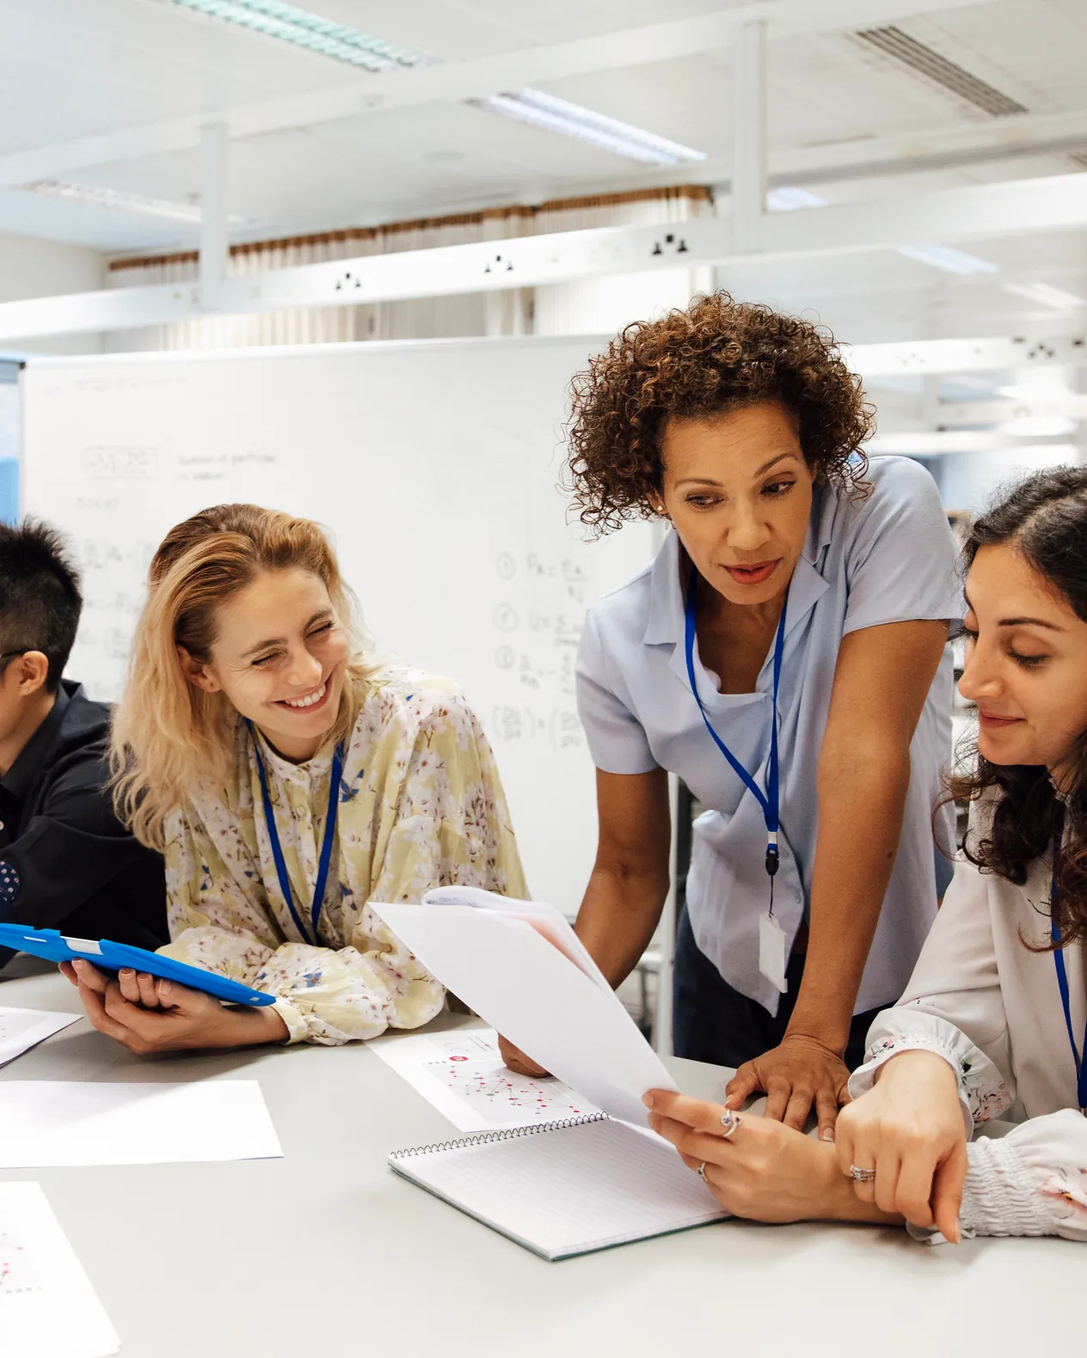
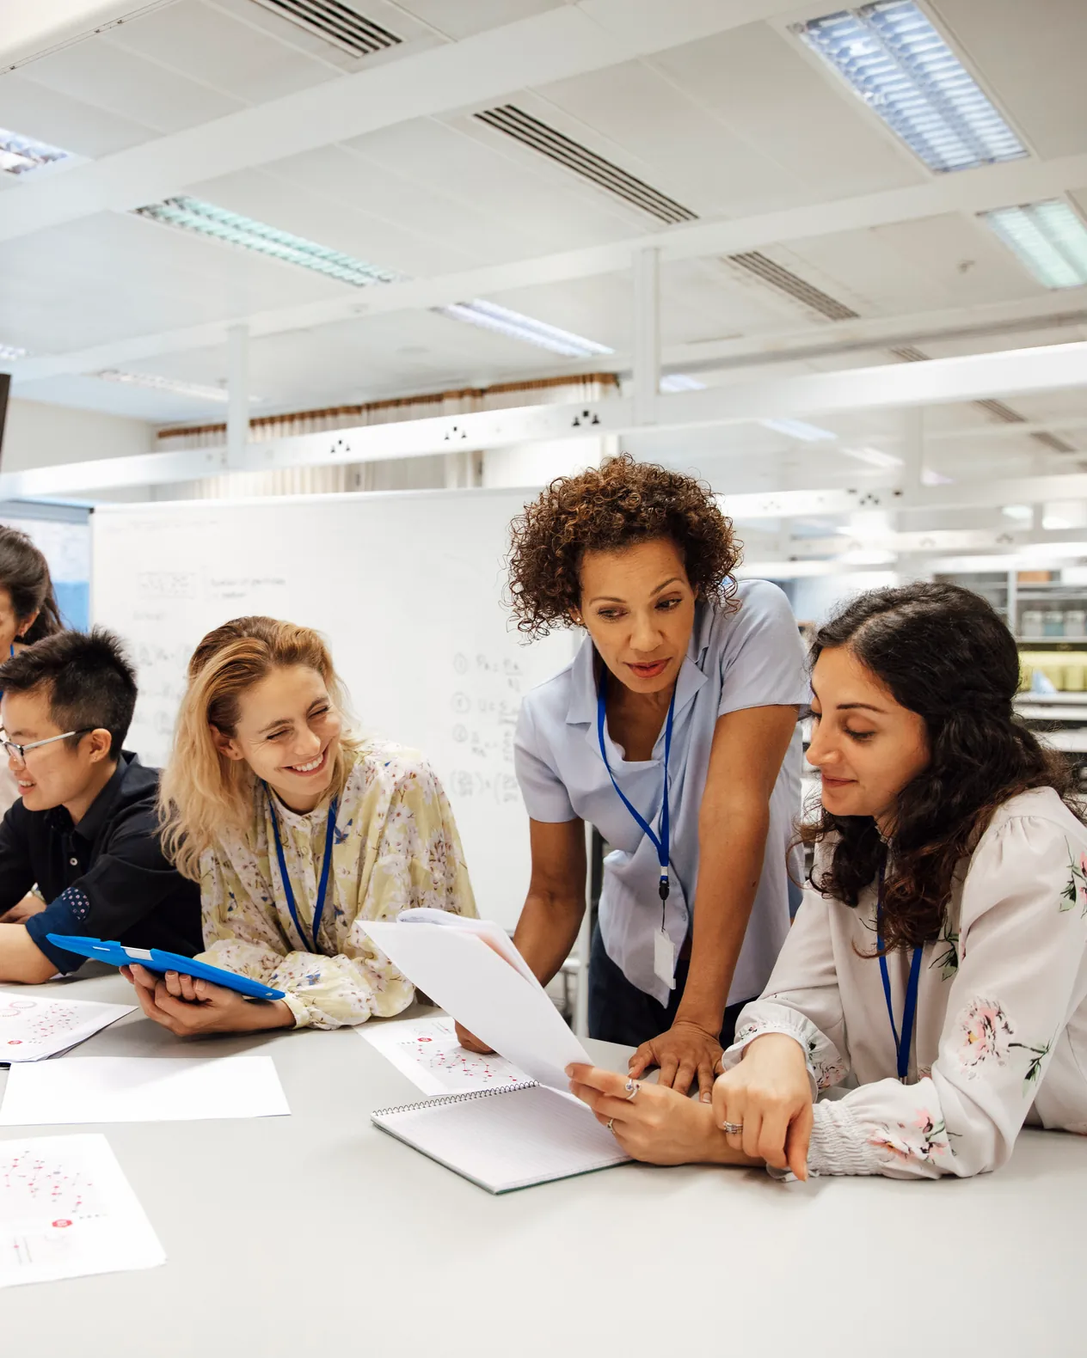
Apply the team's v3 photo review edits
Engineers screens and Co-design the tools square, Build the capabilities 11:10,
Teacher two students / Define the role / Test in classrooms 4:5 at the saved
framing. Regraded, re-encoded, exports and plugin regenerated.

Claude-Session: https://claude.ai/code/session_0149XafUAQf2TnRiTbrmD2Ru

diff --git a/index.html b/index.html
@@ -1143,7 +1143,7 @@
 
     <section class="media-row media-row-flip" style="padding:clamp(var(--section-pad-y),7vw,var(--section-pad-y-lg)) var(--page-gutter)">
       <div data-reveal="" style="opacity:0;transition:opacity var(--transition-fade);margin-inline:auto;max-width:var(--container-xxl);display:grid;grid-template-columns:repeat(auto-fit,minmax(min(var(--container-xxs),100%),1fr));column-gap:var(--space-20);row-gap:var(--space-12);align-items:center">
-        <img src="assets/images/engineers-screens.webp" srcset="assets/images/engineers-screens-m.webp 800w, assets/images/engineers-screens.webp 1264w" sizes="(min-width:1422px) 600px, (min-width:800px) calc(45vw - 40px), 90vw" alt="Programmers at a long shared desk, each at their own monitor, a wall of sticky notes behind them" style="width:100%;aspect-ratio:4/5;object-fit:cover;border-radius:var(--radius-image);display:block" decoding="async" loading="lazy">
+        <img src="assets/images/engineers-screens.webp" srcset="assets/images/engineers-screens-m.webp 800w, assets/images/engineers-screens.webp 1264w" sizes="(min-width:1422px) 600px, (min-width:800px) calc(45vw - 40px), 90vw" alt="Programmers at a long shared desk, each at their own monitor, a wall of sticky notes behind them" style="width:100%;aspect-ratio:1/1;object-fit:cover;border-radius:var(--radius-image);display:block" decoding="async" loading="lazy">
         <div>
           <h2 style="font-size:var(--text-h2);line-height:var(--text-h2-line-height);letter-spacing:var(--heading-letter-spacing);font-weight:var(--font-weight-bold);margin:0 0 var(--space-6);text-wrap:pretty">And the technology to support it is lacking.</h2>
           <p style="font-size:var(--text-medium);line-height:var(--text-body-line-height);font-weight:var(--font-weight-light);margin:0;text-wrap:pretty">Ed tech companies build the apps teachers and students use. The big AI labs build the underlying models that power these apps. What's missing is the layer in between: the foundational capabilities that let AI understand what a student knows, measure skills as complex as critical thinking, and adapt to what's happening in a real classroom.</p>
@@ -1204,7 +1204,7 @@
 
     <section class="media-row" style="padding:clamp(var(--space-28),15vh,10rem) var(--page-gutter) clamp(var(--space-28),15vh,10rem)">
       <div data-reveal="" style="opacity:0;transition:opacity var(--transition-fade);margin-inline:auto;max-width:var(--container-xxl);display:grid;grid-template-columns:repeat(auto-fit,minmax(min(var(--container-xxs),100%),1fr));column-gap:var(--space-20);row-gap:var(--space-12);align-items:center">
-        <img src="assets/images/build-capabilities.webp" srcset="assets/images/build-capabilities-m.webp 800w, assets/images/build-capabilities.webp 1264w" sizes="(min-width:1422px) 600px, (min-width:800px) calc(45vw - 40px), 90vw" alt="A teacher in a yellow dress talking with a group of sixth-form students in a classroom" style="width:100%;aspect-ratio:1/1;object-fit:cover;border-radius:var(--radius-image);display:block" decoding="async" loading="lazy">
+        <img src="assets/images/build-capabilities.webp" srcset="assets/images/build-capabilities-m.webp 800w, assets/images/build-capabilities.webp 1264w" sizes="(min-width:1422px) 600px, (min-width:800px) calc(45vw - 40px), 90vw" alt="A teacher in a yellow dress talking with a group of sixth-form students in a classroom" style="width:100%;aspect-ratio:11/10;object-fit:cover;border-radius:var(--radius-image);display:block" decoding="async" loading="lazy">
         <div>
           <p style="font-weight:var(--font-weight-semibold);font-size:var(--text-regular);margin:0 0 var(--space-4)"><span style="color:var(--brand-accent)">02</span>&nbsp;&nbsp;Build the capabilities</p>
           <h2 style="font-size:var(--text-h2);line-height:var(--text-h2-line-height);letter-spacing:var(--heading-letter-spacing);font-weight:var(--font-weight-bold);margin:0 0 var(--space-6);text-wrap:pretty">We research what makes that role technically feasible.</h2>
@@ -1215,7 +1215,7 @@
 
     <section class="media-row media-row-flip" style="padding:clamp(var(--space-28),15vh,10rem) var(--page-gutter) clamp(var(--space-28),15vh,10rem)">
       <div data-reveal="" style="opacity:0;transition:opacity var(--transition-fade);margin-inline:auto;max-width:var(--container-xxl);display:grid;grid-template-columns:repeat(auto-fit,minmax(min(var(--container-xxs),100%),1fr));column-gap:var(--space-20);row-gap:var(--space-12);align-items:center">
-        <img src="assets/images/codesign-tools.webp" srcset="assets/images/codesign-tools-m.webp 800w, assets/images/codesign-tools.webp 1264w" sizes="(min-width:1422px) 600px, (min-width:800px) calc(45vw - 40px), 90vw" alt="Five colleagues seen through a glass wall covered in sticky notes, adding another to it from the far side" style="width:100%;aspect-ratio:4/5;object-fit:cover;border-radius:var(--radius-image);display:block" decoding="async" loading="lazy">
+        <img src="assets/images/codesign-tools.webp" srcset="assets/images/codesign-tools-m.webp 800w, assets/images/codesign-tools.webp 1264w" sizes="(min-width:1422px) 600px, (min-width:800px) calc(45vw - 40px), 90vw" alt="Five colleagues seen through a glass wall covered in sticky notes, adding another to it from the far side" style="width:100%;aspect-ratio:1/1;object-fit:cover;border-radius:var(--radius-image);display:block" decoding="async" loading="lazy">
         <div>
           <p style="font-weight:var(--font-weight-semibold);font-size:var(--text-regular);margin:0 0 var(--space-4)"><span style="color:var(--brand-accent)">03</span>&nbsp;&nbsp;Co-design the tools</p>
           <h2 style="font-size:var(--text-h2);line-height:var(--text-h2-line-height);letter-spacing:var(--heading-letter-spacing);font-weight:var(--font-weight-bold);margin:0 0 var(--space-6);text-wrap:pretty">We build tools that bring the role to life.</h2>

diff --git a/wordpress-handoff/pages/approach.html b/wordpress-handoff/pages/approach.html
@@ -1,5 +1,5 @@
 <!doctype html>
-<!-- exported from c3904dd5c685cf1b05ce68ceef30b1711db9070b+dirty by tools/export-static.mjs; index.html sha256 588b663ac3611f6d -->
+<!-- exported from 73a0ceddb5a9657c9955bb82155e1ebcaa71e14d+dirty by tools/export-static.mjs; index.html sha256 de296f0f8f41c0ed -->
 <html lang="en"><head>
 <meta charset="utf-8">
 <meta name="viewport" content="width=device-width, initial-scale=1">
@@ -738,7 +738,7 @@
 
     <section class="media-row" style="padding: clamp(var(--space-28),15vh,10rem) var(--page-gutter) clamp(var(--space-28),15vh,10rem);">
       <div data-reveal="" style="opacity: 0; transition: opacity var(--transition-fade); margin-inline: auto; max-width: var(--container-xxl); display: grid; grid-template-columns: repeat(auto-fit,minmax(min(var(--container-xxs),100%),1fr)); column-gap: var(--space-20); row-gap: var(--space-12); align-items: center;">
-        <img src="../../assets/images/build-capabilities.webp" srcset="../../assets/images/build-capabilities-m.webp 800w, ../../assets/images/build-capabilities.webp 1264w" sizes="(min-width:1422px) 600px, (min-width:800px) calc(45vw - 40px), 90vw" alt="A teacher in a yellow dress talking with a group of sixth-form students in a classroom" decoding="async" loading="lazy" style="width: 100%; aspect-ratio: 1 / 1; object-fit: cover; border-radius: var(--radius-image); display: block;">
+        <img src="../../assets/images/build-capabilities.webp" srcset="../../assets/images/build-capabilities-m.webp 800w, ../../assets/images/build-capabilities.webp 1264w" sizes="(min-width:1422px) 600px, (min-width:800px) calc(45vw - 40px), 90vw" alt="A teacher in a yellow dress talking with a group of sixth-form students in a classroom" decoding="async" loading="lazy" style="width: 100%; aspect-ratio: 11 / 10; object-fit: cover; border-radius: var(--radius-image); display: block;">
         <div>
           <p style="font-weight: var(--font-weight-semibold); font-size: var(--text-regular); margin: 0 0 var(--space-4);"><span style="color: var(--brand-accent);">02</span>&nbsp;&nbsp;Build the capabilities</p>
           <h2 style="font-size: var(--text-h2); line-height: var(--text-h2-line-height); letter-spacing: var(--heading-letter-spacing); font-weight: var(--font-weight-bold); margin: 0 0 var(--space-6); text-wrap: pretty;">We research what makes that role technically feasible.</h2>
@@ -749,7 +749,7 @@
 
     <section class="media-row media-row-flip" style="padding: clamp(var(--space-28),15vh,10rem) var(--page-gutter) clamp(var(--space-28),15vh,10rem);">
       <div data-reveal="" style="opacity: 0; transition: opacity var(--transition-fade); margin-inline: auto; max-width: var(--container-xxl); display: grid; grid-template-columns: repeat(auto-fit,minmax(min(var(--container-xxs),100%),1fr)); column-gap: var(--space-20); row-gap: var(--space-12); align-items: center;">
-        <img src="../../assets/images/codesign-tools.webp" srcset="../../assets/images/codesign-tools-m.webp 800w, ../../assets/images/codesign-tools.webp 1264w" sizes="(min-width:1422px) 600px, (min-width:800px) calc(45vw - 40px), 90vw" alt="Five colleagues seen through a glass wall covered in sticky notes, adding another to it from the far side" decoding="async" loading="lazy" style="width: 100%; aspect-ratio: 4 / 5; object-fit: cover; border-radius: var(--radius-image); display: block;">
+        <img src="../../assets/images/codesign-tools.webp" srcset="../../assets/images/codesign-tools-m.webp 800w, ../../assets/images/codesign-tools.webp 1264w" sizes="(min-width:1422px) 600px, (min-width:800px) calc(45vw - 40px), 90vw" alt="Five colleagues seen through a glass wall covered in sticky notes, adding another to it from the far side" decoding="async" loading="lazy" style="width: 100%; aspect-ratio: 1 / 1; object-fit: cover; border-radius: var(--radius-image); display: block;">
         <div>
           <p style="font-weight: var(--font-weight-semibold); font-size: var(--text-regular); margin: 0 0 var(--space-4);"><span style="color: var(--brand-accent);">03</span>&nbsp;&nbsp;Co-design the tools</p>
           <h2 style="font-size: var(--text-h2); line-height: var(--text-h2-line-height); letter-spacing: var(--heading-letter-spacing); font-weight: var(--font-weight-bold); margin: 0 0 var(--space-6); text-wrap: pretty;">We build tools that bring the role to life.</h2>

diff --git a/wordpress-handoff/pages/challenge.html b/wordpress-handoff/pages/challenge.html
@@ -1,5 +1,5 @@
 <!doctype html>
-<!-- exported from c3904dd5c685cf1b05ce68ceef30b1711db9070b+dirty by tools/export-static.mjs; index.html sha256 588b663ac3611f6d -->
+<!-- exported from 73a0ceddb5a9657c9955bb82155e1ebcaa71e14d+dirty by tools/export-static.mjs; index.html sha256 de296f0f8f41c0ed -->
 <html lang="en"><head>
 <meta charset="utf-8">
 <meta name="viewport" content="width=device-width, initial-scale=1">
@@ -732,7 +732,7 @@
 
     <section class="media-row media-row-flip" style="padding: clamp(var(--section-pad-y),7vw,var(--section-pad-y-lg)) var(--page-gutter);">
       <div data-reveal="" style="opacity: 0; transition: opacity var(--transition-fade); margin-inline: auto; max-width: var(--container-xxl); display: grid; grid-template-columns: repeat(auto-fit,minmax(min(var(--container-xxs),100%),1fr)); column-gap: var(--space-20); row-gap: var(--space-12); align-items: center;">
-        <img src="../../assets/images/engineers-screens.webp" srcset="../../assets/images/engineers-screens-m.webp 800w, ../../assets/images/engineers-screens.webp 1264w" sizes="(min-width:1422px) 600px, (min-width:800px) calc(45vw - 40px), 90vw" alt="Programmers at a long shared desk, each at their own monitor, a wall of sticky notes behind them" decoding="async" loading="lazy" style="width: 100%; aspect-ratio: 4 / 5; object-fit: cover; border-radius: var(--radius-image); display: block;">
+        <img src="../../assets/images/engineers-screens.webp" srcset="../../assets/images/engineers-screens-m.webp 800w, ../../assets/images/engineers-screens.webp 1264w" sizes="(min-width:1422px) 600px, (min-width:800px) calc(45vw - 40px), 90vw" alt="Programmers at a long shared desk, each at their own monitor, a wall of sticky notes behind them" decoding="async" loading="lazy" style="width: 100%; aspect-ratio: 1 / 1; object-fit: cover; border-radius: var(--radius-image); display: block;">
         <div>
           <h2 style="font-size: var(--text-h2); line-height: var(--text-h2-line-height); letter-spacing: var(--heading-letter-spacing); font-weight: var(--font-weight-bold); margin: 0 0 var(--space-6); text-wrap: pretty;">And the technology to support it is lacking.</h2>
           <p style="font-size: var(--text-medium); line-height: var(--text-body-line-height); font-weight: var(--font-weight-light); margin: 0px; text-wrap: pretty;">Ed tech companies build the apps teachers and students use. The big AI labs build the underlying models that power these apps. What's missing is the layer in between: the foundational capabilities that let AI understand what a student knows, measure skills as complex as critical thinking, and adapt to what's happening in a real classroom.</p>

diff --git a/wordpress-handoff/pages/follow.html b/wordpress-handoff/pages/follow.html
@@ -1,5 +1,5 @@
 <!doctype html>
-<!-- exported from c3904dd5c685cf1b05ce68ceef30b1711db9070b+dirty by tools/export-static.mjs; index.html sha256 588b663ac3611f6d -->
+<!-- exported from 73a0ceddb5a9657c9955bb82155e1ebcaa71e14d+dirty by tools/export-static.mjs; index.html sha256 de296f0f8f41c0ed -->
 <html lang="en"><head>
 <meta charset="utf-8">
 <meta name="viewport" content="width=device-width, initial-scale=1">

diff --git a/wordpress-handoff/pages/home.html b/wordpress-handoff/pages/home.html
@@ -1,5 +1,5 @@
 <!doctype html>
-<!-- exported from c3904dd5c685cf1b05ce68ceef30b1711db9070b+dirty by tools/export-static.mjs; index.html sha256 588b663ac3611f6d -->
+<!-- exported from 73a0ceddb5a9657c9955bb82155e1ebcaa71e14d+dirty by tools/export-static.mjs; index.html sha256 de296f0f8f41c0ed -->
 <html lang="en"><head>
 <meta charset="utf-8">
 <meta name="viewport" content="width=device-width, initial-scale=1">

diff --git a/wordpress-handoff/pages/team.html b/wordpress-handoff/pages/team.html
@@ -1,5 +1,5 @@
 <!doctype html>
-<!-- exported from c3904dd5c685cf1b05ce68ceef30b1711db9070b+dirty by tools/export-static.mjs; index.html sha256 588b663ac3611f6d -->
+<!-- exported from 73a0ceddb5a9657c9955bb82155e1ebcaa71e14d+dirty by tools/export-static.mjs; index.html sha256 de296f0f8f41c0ed -->
 <html lang="en"><head>
 <meta charset="utf-8">
 <meta name="viewport" content="width=device-width, initial-scale=1">

diff --git a/source-material/README.md b/source-material/README.md
@@ -8,7 +8,7 @@ anyone's laptop.
 | --- | --- |
 | `webflow-export/` | The original Webflow site as exported: `index.html`, `team.html`, `our-approach.html`, `the-challenge.html`, `get-involved.html`, their `css/` and `js/`, and `style-guide-*.html` — the rendered style guide. Also the brand explorations (`AugmentED_5alt.png`, `AugmentED_stain_v2_vs_approved.png`), the hero storyboard frames (`H0_f0001` … `H6c_f0672`), `AugmentED_Headshots/` at original resolution, and `0001-0680.mp4`. |
 | `team/` | The team roster, `people.json`: everyone the site knows about, on the page, held or archived, and the one place a team change starts. Its README has the fields. |
-| `image-sources/` | The originals `tools/encode-images.mjs` reads: `team/` (the headshots as received, which `tools/cutout-headshots.py` reads rather than the encoder, one file per person. Which photograph each person has, where it came from and anything done to it is recorded against them in the team roster, `source-material/team/people.json`; the rule for choosing between the "Website Bio tracking" sheet, the website info form and the subject's own institution is in the headshot comment in `tools/encode-images.mjs`. Masters are kept for people off the page too, but only for those who have been on it: this repository is public, so the photographs of people still waiting for a group stay in the form's Drive folder, recorded in the roster by file ID), `team-cutout/` (what the encoder's headshot jobs read: each person pictured on the page, lifted off their background and framed by one rule for all of them — the same face height, the same eye line, the shoulders running off the tile — as a 768px RGBA WebP with no colour treatment, which the encoder lays, in its own colour, on the tiles' light blue. Written by `tools/cutout-headshots.py` and committed, because making them takes a 973 MB matting model (BiRefNet-portrait) that is not in the repository and is not needed to re-encode; the tool's header says where to fetch it and pins its environment, and `--only=<slug>` rebuilds one person. They are derived files: a better photograph in `team/`, re-run through the tool, is the only way to improve a tile), `images/` (the two full-width 3/2 photographs, and since September 2026 nothing else — all seven of the 4/5 frames on The Challenge and Our Approach are now Shutterstock, read from `stock-photos-aug/large/` below. Note that neither 3/2 frame is referenced by any page: they encode and publish, and nothing links them. See the note on their jobs in the encoder), `icons/` (the three home-page illustration plates and the four co-design cycle node renders), `schools/` (the co-design action shots, including the second Museum High frame the page does not use), `blocks/` (the six wooden-block cut-outs), `unused/` (the six superseded home-hero frames, and the two generated 4/5 masters retired in September — `build-capabilities.png` and `engineers-screens.png`, which shipped in the design handover hotlinked to a CDN bucket and were committed here because that bucket is not a home for production assets) and `stock-photos-aug/` (the August Shutterstock selects, downloaded under Folkmark's unlimited subscription; they keep their Shutterstock asset IDs as filenames, in both the shortlist and the encoder, so a licence can be traced back to the download — the descriptive name lives on the encoder's output instead. The top level holds the web-sized comps to browse the shortlist by, and `large/` the full-resolution originals, 2266x3626 to 9504x6336, which are what `tools/encode-images.mjs` reads. Seven are in use, one per 4/5 frame, cropped by a measured box on each job: 2763377205, 2176735867, 1136122199, 2670025731, 2354739045, 2129383421 and 2757155555. Three of those, 2763377205, 2354739045 and 2129383421, also carry a `grade` — a per-channel multiplier that puts them on the same white balance and white point as the rest of the site's photography; the encoder's own comment, under THE GRADE, has the rule and the measurements. 2380531861 and 2218619397 were selected and not taken, 2380531861 having held the Co-design frame until 2129383421 replaced it). **Since 8 October 2026 five of the seven 4/5 frames are licensed Getty photographs, not Shutterstock** (Getty 2222113845, 1324921324, 1044232206, 1469940271 and 1440718884, on Engineers screens, Teacher two students, Define the role, Build the capabilities and Test in classrooms; Build the capabilities is square, 1:1). Their sources are the client's licensed originals already cropped to each box, kept in `stock-photos-aug/getty-licensed/`, which is git-ignored because the licence does not let a public repository offer the full-resolution file; only the encoded WebP under `assets/images/` is committed, and a clean checkout skips those jobs. The Shutterstock files for those five slots stay in `large/` and are no longer read. `unused-diagrams/` holds the co-design cycle SVGs the R&D wheel was drawn from. |
+| `image-sources/` | The originals `tools/encode-images.mjs` reads: `team/` (the headshots as received, which `tools/cutout-headshots.py` reads rather than the encoder, one file per person. Which photograph each person has, where it came from and anything done to it is recorded against them in the team roster, `source-material/team/people.json`; the rule for choosing between the "Website Bio tracking" sheet, the website info form and the subject's own institution is in the headshot comment in `tools/encode-images.mjs`. Masters are kept for people off the page too, but only for those who have been on it: this repository is public, so the photographs of people still waiting for a group stay in the form's Drive folder, recorded in the roster by file ID), `team-cutout/` (what the encoder's headshot jobs read: each person pictured on the page, lifted off their background and framed by one rule for all of them — the same face height, the same eye line, the shoulders running off the tile — as a 768px RGBA WebP with no colour treatment, which the encoder lays, in its own colour, on the tiles' light blue. Written by `tools/cutout-headshots.py` and committed, because making them takes a 973 MB matting model (BiRefNet-portrait) that is not in the repository and is not needed to re-encode; the tool's header says where to fetch it and pins its environment, and `--only=<slug>` rebuilds one person. They are derived files: a better photograph in `team/`, re-run through the tool, is the only way to improve a tile), `images/` (the two full-width 3/2 photographs, and since September 2026 nothing else — all seven of the 4/5 frames on The Challenge and Our Approach are now Shutterstock, read from `stock-photos-aug/large/` below. Note that neither 3/2 frame is referenced by any page: they encode and publish, and nothing links them. See the note on their jobs in the encoder), `icons/` (the three home-page illustration plates and the four co-design cycle node renders), `schools/` (the co-design action shots, including the second Museum High frame the page does not use), `blocks/` (the six wooden-block cut-outs), `unused/` (the six superseded home-hero frames, and the two generated 4/5 masters retired in September — `build-capabilities.png` and `engineers-screens.png`, which shipped in the design handover hotlinked to a CDN bucket and were committed here because that bucket is not a home for production assets) and `stock-photos-aug/` (the August Shutterstock selects, downloaded under Folkmark's unlimited subscription; they keep their Shutterstock asset IDs as filenames, in both the shortlist and the encoder, so a licence can be traced back to the download — the descriptive name lives on the encoder's output instead. The top level holds the web-sized comps to browse the shortlist by, and `large/` the full-resolution originals, 2266x3626 to 9504x6336, which are what `tools/encode-images.mjs` reads. Seven are in use, one per 4/5 frame, cropped by a measured box on each job: 2763377205, 2176735867, 1136122199, 2670025731, 2354739045, 2129383421 and 2757155555. Three of those, 2763377205, 2354739045 and 2129383421, also carry a `grade` — a per-channel multiplier that puts them on the same white balance and white point as the rest of the site's photography; the encoder's own comment, under THE GRADE, has the rule and the measurements. 2380531861 and 2218619397 were selected and not taken, 2380531861 having held the Co-design frame until 2129383421 replaced it). **Since 8 October 2026 five of the seven 4/5 frames are licensed Getty photographs, not Shutterstock** (Getty 2222113845, 1324921324, 1044232206, 1469940271 and 1440718884, on Engineers screens, Teacher two students, Define the role, Build the capabilities and Test in classrooms; Engineers screens is square, 1:1, and Build the capabilities is 11:10; Co-design the tools, still Shutterstock, is also square since the same review). Their sources are the client's licensed originals already cropped to each box, kept in `stock-photos-aug/getty-licensed/`, which is git-ignored because the licence does not let a public repository offer the full-resolution file; only the encoded WebP under `assets/images/` is committed, and a clean checkout skips those jobs. The Shutterstock files for those five slots stay in `large/` and are no longer read. `unused-diagrams/` holds the co-design cycle SVGs the R&D wheel was drawn from. |
 | `brand-logos/` | The AugmentED logo kit as AERDF supplied it, in `EPS/`, `JPG/`, `PDF/`, `PNG/` and `SVG/`, plus `AugmentED_Brand_Guide_Page.pdf`. Eleven lockups: horizontal and vertical, each in colour, black, white and colour-with-white-text, and three standalone icons. Every wordmark lockup carries "supported by aerdf" — there is no variant without it, so a lockup that needs to omit it does not exist and must not be made by cropping one that does. No encoder reads this: the two the site ships, `assets/logo/logo-horiz.svg` and `logo-vert.svg`, are the colour SVGs copied across unchanged, because vector needs no encoding step. |
 | `scroll-world.js` | An early scroll experiment, kept for reference. |
 
